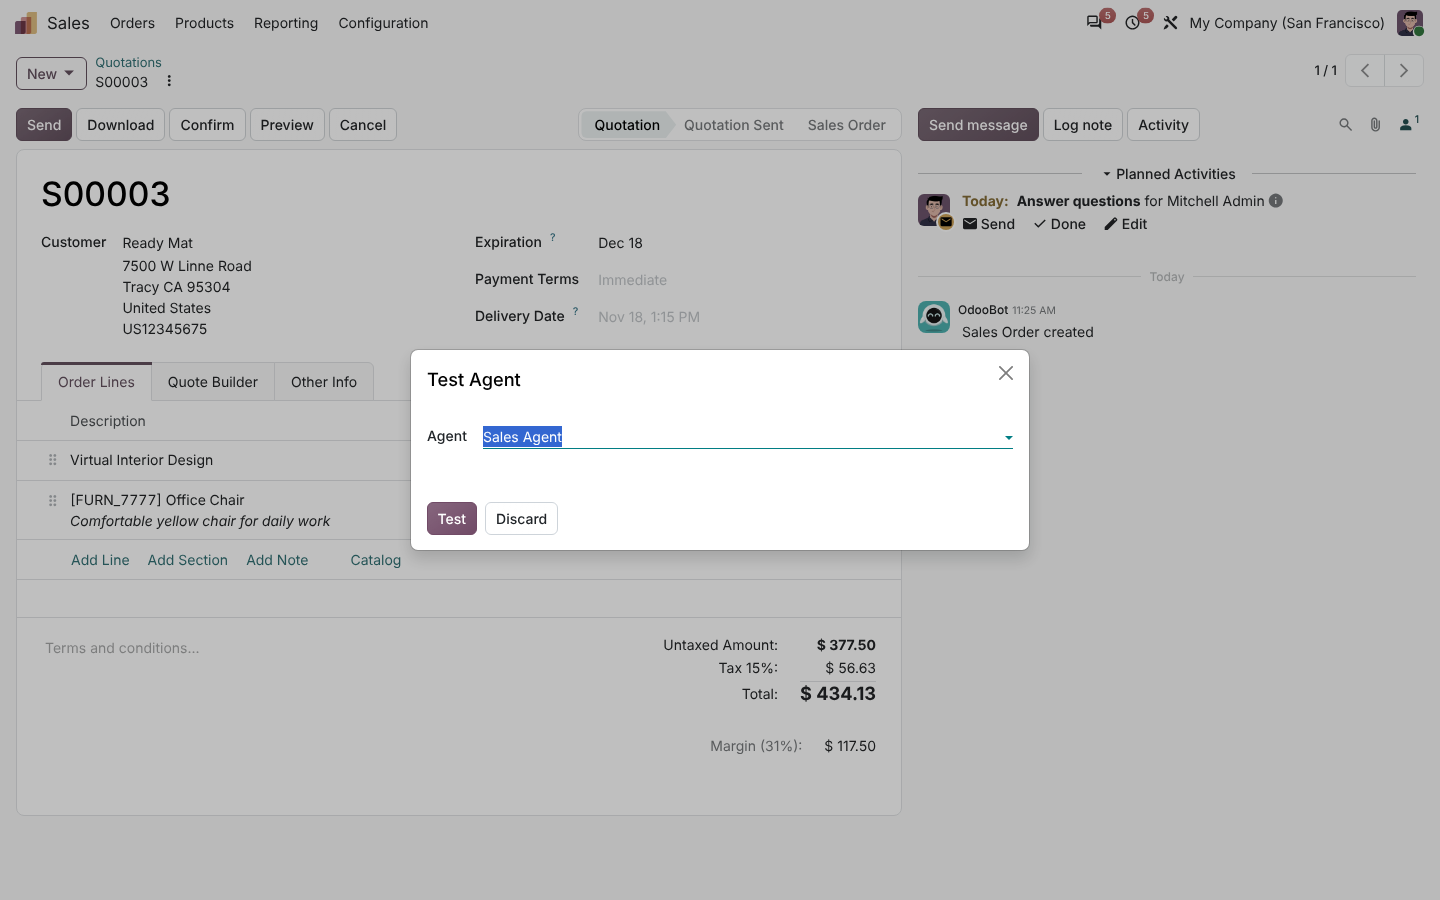
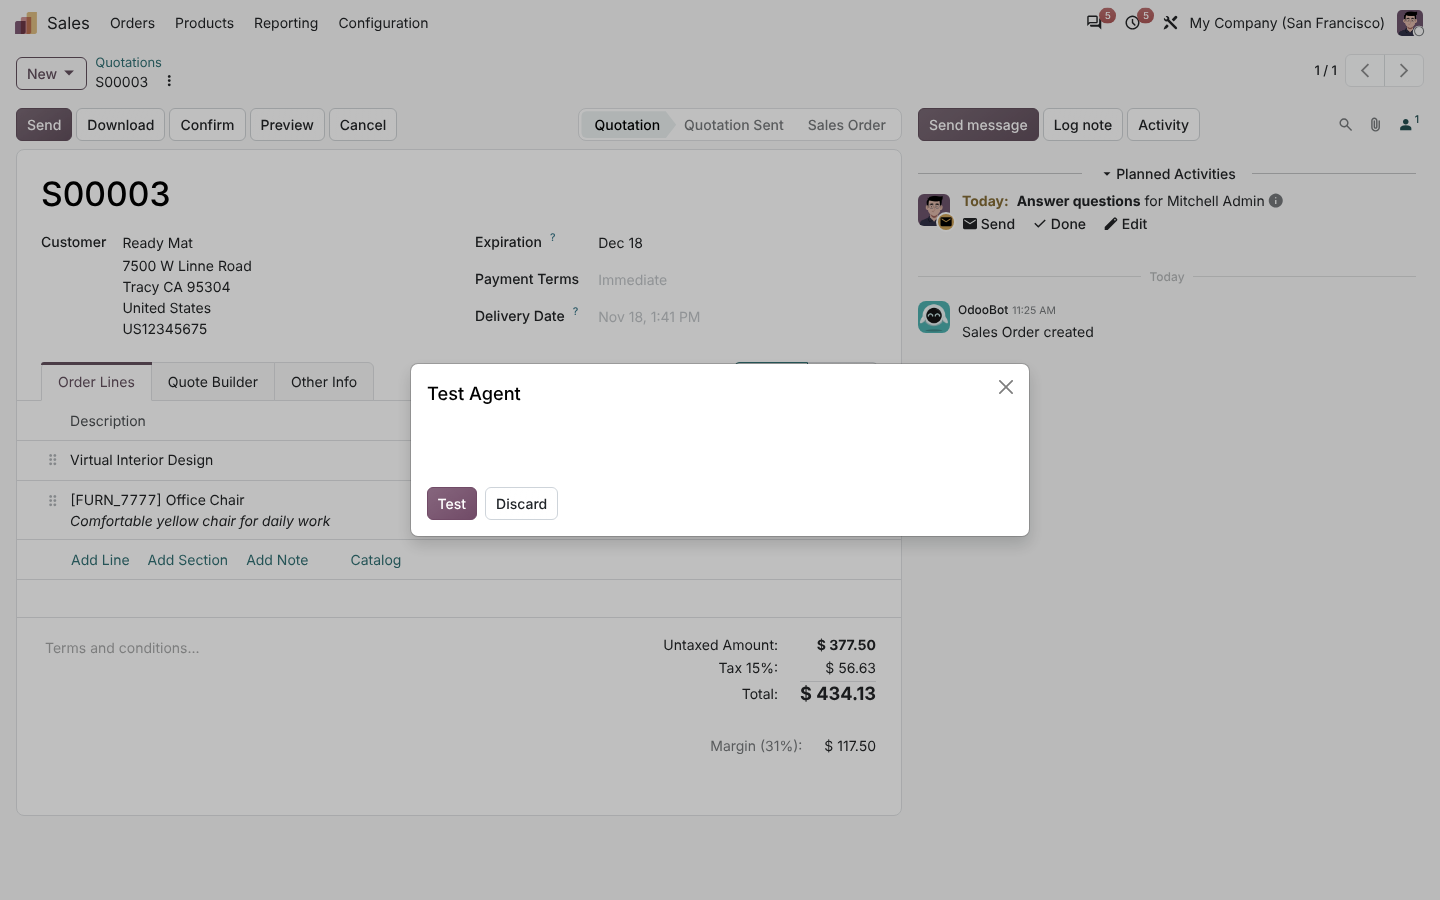
Odoo UI skill phase 6, round 5 prep: problem label on the card, one-choice field hidden, empty state points at New, one task per step
Claude-Session: https://claude.ai/code/session_016iWLdDriN1AhULcqk5KQPk

Changed region(s): [[0.2812, 0.3733, 0.7188, 0.4978], [0.2812, 0.5289, 0.7188, 0.6222]]

diff --git a/docs/odoo-ui-skill/validation/pan_ui_probe/wizard/agent_test.py b/docs/odoo-ui-skill/validation/pan_ui_probe/wizard/agent_test.py
@@ -12,7 +12,13 @@ class PanProbeAgentTest(models.TransientModel):
         "pan.probe.agent", string="Agent", required=True,
         domain="[('app', '=', 'sale'), ('enabled', '=', True)]")
     order_id = fields.Many2one("sale.order", string="Quotation", required=True)
+    agent_count = fields.Integer(compute="_compute_agent_count")
     answer = fields.Text(readonly=True)
+
+    def _compute_agent_count(self):
+        count = self.env["pan.probe.agent"].search_count([("app", "=", "sale"), ("enabled", "=", True)])
+        for wizard in self:
+            wizard.agent_count = count
 
     @api.model
     def default_get(self, fields_list):

diff --git a/skills/pantalytics-odoo-ui/SKILL.md b/skills/pantalytics-odoo-ui/SKILL.md
@@ -45,17 +45,17 @@ components. Odoo's colours, font, elevation and widgets stay (proof:
 | The main action | `<header>` button with `class="btn-primary"`, **first** in the header | 1 per state; on a phone only the first is shown |
 | Other actions | `btn-secondary` in the header, or a bound server action in the cog | <= 3 visible header buttons; no duplicate of the same action anywhere. The user's word for a task must be on the screen where the task starts, as a visible button. Validation, three rounds: a task behind the phone caret, inside a merged button, or in the action menu (⋮, `binding_model_id`) was lost every time, 19 and 20, desktop and phone. So decide per task: a main task gets a visible button; a rare task (testing, setup) may live in the action menu, knowing a lazy user will not find it |
 | Row action | `<button icon=... class="btn-link">` in the list | only when it is not "open the record" |
-| Why it is broken | the error as a short column next to the status, empty when healthy; on the card a red line shown only when failing | the user must not open the record to learn why |
+| Why it is broken | the error as a "Problem" column next to the status, empty when healthy; on the card a red line "Problem: ..." shown only when failing (without the label, phone users did not see it as the answer) | the user must not open the record to learn why |
 | Status | A lifecycle of 3-5 steps: `statusbar` in the form header. A health state (Running, Failing): `widget="badge"` in the form `<header>`, where a statusbar would sit. One `badge` column in the list | one status per record, said once |
 | Status colour | (Odoo 20 draws badges pale: Failing and Needs Key look alike on a phone, so the problem line, not the colour, must say what is wrong) `decoration-success` works, `-warning` needs the user, `-danger` broken, `-muted` off/draft/cancelled | never `info`, `primary`, inline colour |
 | On/off with immediate effect | `boolean_toggle` on its own field (`enabled`), in list or kanban only | 0 toggles in forms, wizards, settings. Never on `active`: archived rows leave the list. On/off is the switch, health is the badge: the badge stays empty when off, so "off" is said once |
 | A choice saved later | plain `boolean` (checkbox); 2-4 options `radio`, 5+ selection | Odoo 20 shows checkboxes as switches on a phone: accept it |
 | Counts users act on | stat button, `invisible` when 0 | <= 4 |
-| One short step | wizard, `target="new"`, `medium` | <= 4 fields, 1 primary + Discard, 0 paragraphs. A wizard that shows a result shows it in the same dialog, footer then 1 primary "Done" |
+| One short step | wizard, `target="new"`, `medium` | <= 4 fields; a field with one possible value is hidden (one choice is no choice), 1 primary + Discard, 0 paragraphs. A wizard that shows a result shows it in the same dialog, footer then 1 primary "Done" |
 | A flow with checks | form, `target="current"`; the crumb is the back link | |
 | Feedback on an action | the changed value on the record where the eye is; a notification with a type (`success`/`warning`/`danger`) only when nothing visible changes | never `info`; an output worth reading is a field on the record, not a toast |
 | A problem with this record | inline `alert` with `invisible=` | gone when solved; <= 1 per form |
-| Empty | action help: one line that names the state, `<p>No agents yet</p>`; New is the action | no illustration, no imperative ("Add your first agent" looked like a button and was tapped), no second paragraph, no `sample="1"` (sample rows read as real records) |
+| Empty | action help: the state, then where the action is: `<p>No agents yet</p><p>Add one with New.</p>` | no illustration, no imperative that looks like a button ("Add your first agent" was taken for one), no `sample="1"` (sample rows read as real records) |
 | Settings | `<app>` > `<block>` > `<setting id=...>` | 1 app, <= 3 blocks, <= 6 settings per block, help <= 12 words. A block is named after what it controls ("Access"), never after the app |
 | An app that needs pairing | setup checklist inside `<block>`/`<setting>`: one row per step, status, one action | later steps hidden until earlier ones work |
 | Advanced options | last notebook page, `groups="base.group_no_one"`, or a small `priority=100` form | |
@@ -110,9 +110,10 @@ The smallest set that follows the rules (Odoo 18, 19 and 20; icons differ, see V
   </templates>
 </kanban>
 
-<!-- Empty state: one line that names the state; New is the action -->
+<!-- Empty state: the state, then where the action is -->
 <field name="help" type="html">
   <p>No agents yet</p>
+  <p>Add one with New.</p>
 </field>
 ```
 

diff --git a/docs/odoo-ui-skill/validation/SPEC.md b/docs/odoo-ui-skill/validation/SPEC.md
@@ -40,9 +40,9 @@ Demo data: 6 agents, one in each state, at least one failing with an error.
 
 One line each, no other explanation.
 
-1. "Add a new agent." (from the app menu; round 1 said "for Sales", which pulled the eye to the Sales app)
+1. "Open your agents." (from the home menu; round 1 said "Add an agent for Sales", rounds 2-4 "Add a new agent.", a two-step task judged on its first step)
 2. "Which agent is broken?" (from the list)
-3. "Why is it broken?" (from the list)
+3. "Why is it broken? (answered by looking: first_tap is what tells you)" (from the list)
 4. "Run the Sales agent now."
 5. "Turn off the Stock Checker." (round 4; was "Turn the Inventory agent off.", ambiguous with three agents in the Inventory app)
 6. "Let agents write in Odoo." (Settings)

diff --git a/skills/pantalytics-odoo-ui/agents/lazy-user.md b/skills/pantalytics-odoo-ui/agents/lazy-user.md
@@ -62,7 +62,12 @@ x,y to an element. A screen passes only if, at both widths:
 - `read` holds only labels, at most 3, no sentence.
 
 Screens that are read by nature (an open menu, an error text the task asks
-for) skip the "labels only" rule; mark their target `read_ok`.
+for) skip the "labels only" rule; mark their target `read_ok`. For a task
+answered by looking, add to the task line "(answered by looking: first_tap is
+what tells you)", or the judge hesitates because there is nothing to tap.
+
+One task, one step: a task that needs two screens (open the app, then add) is
+two tasks, each judged on its own screen.
 
 Warnings (fix when cheap, never ship-blocking): more than one item in
 `considered`, `feel` "busy", `stands_out` not the target. Calibrated on native
